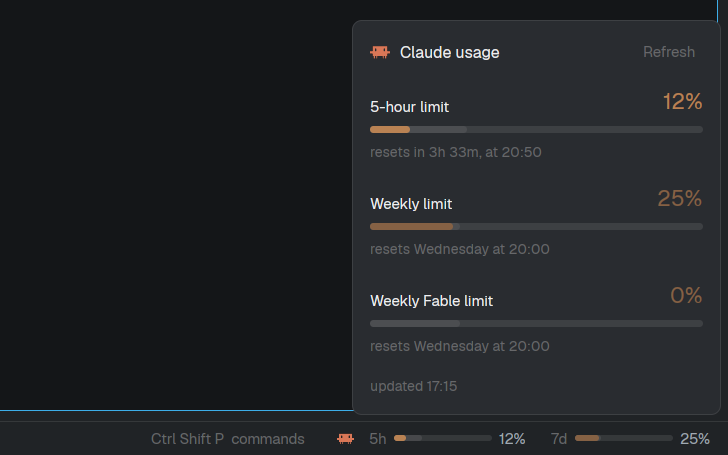
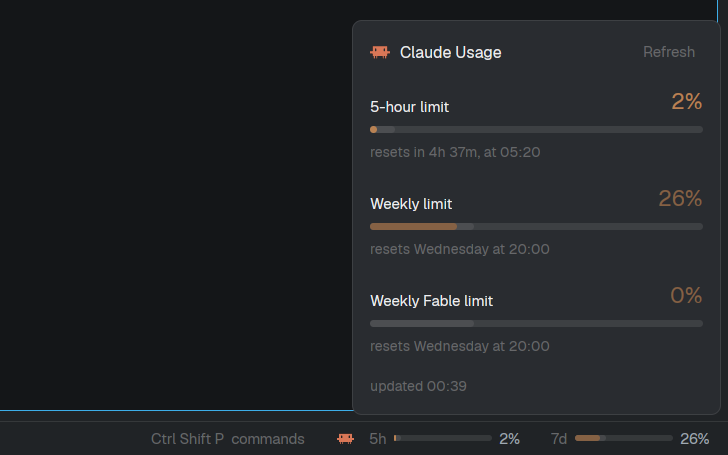
Title the popup Claude Usage

diff --git a/mods/claude-usage/main.js b/mods/claude-usage/main.js
@@ -160,7 +160,7 @@ export default class ClaudeUsage extends View {
       .bg(t.popover).border(1).border_color(t.border).rounded(8)
       .child(h_flex().justify_between().items_center()
         .child(h_flex().gap(8).items_center().child(image("icons/claude.svg").size(16))
-          .child(div().text_size(13).font_semibold().text_color(t.foreground).child("Claude usage")))
+          .child(div().text_size(13).font_semibold().text_color(t.foreground).child("Claude Usage")))
         .child(div().id("refresh").px(6).py(2).rounded(5).text_color(t.dim).hover(s => s.bg(t.hover).text_color(t.foreground))
           .on_click((_e, cx) => cx.spawn(async () => refresh())).child("Refresh")))
       .children((u?.windows ?? []).map(w => v_flex().gap(6)

diff --git a/RECIPE.md b/RECIPE.md
@@ -15,7 +15,7 @@ This file is the brief: enough to build Claude Usage from an empty folder. The f
   - Behind it, a ghost fill in `dim` at 35% opacity shows the share of the window that has already elapsed. A lit fill past the ghost means you are using the limit faster than time passes.
   - Before the first fetch it shows `…`; with no data and an error, `no data`.
 - **The popup**, 300px wide, right-aligned with the bar and 6px above it, sized by content, 14px padding, 14px gaps, text 12px in `muted`, on `popover` with a 1px `border` and 8px corners.
-  - A header: the Claude icon (16px), "Claude usage" in 13px semibold `foreground`, and a "Refresh" button on the right (`dim`, `hover` background on hover).
+  - A header: the Claude icon (16px), "Claude Usage" in 13px semibold `foreground`, and a "Refresh" button on the right (`dim`, `hover` background on hover).
   - One section per limit the account reports, including weekly limits scoped to one model ("Weekly Opus limit"): the name in `foreground`, the percentage in 18px semibold in the meter's color, a 6px meter, and "resets in 2h 14m, at 17:00" (under 24 hours) or "resets Monday at 09:00" in 11.5px `dim`.
   - A footer: "updated 14:05", or "fetch failed: HTTP 401 · data from 13:55" in `blocked`.
 
